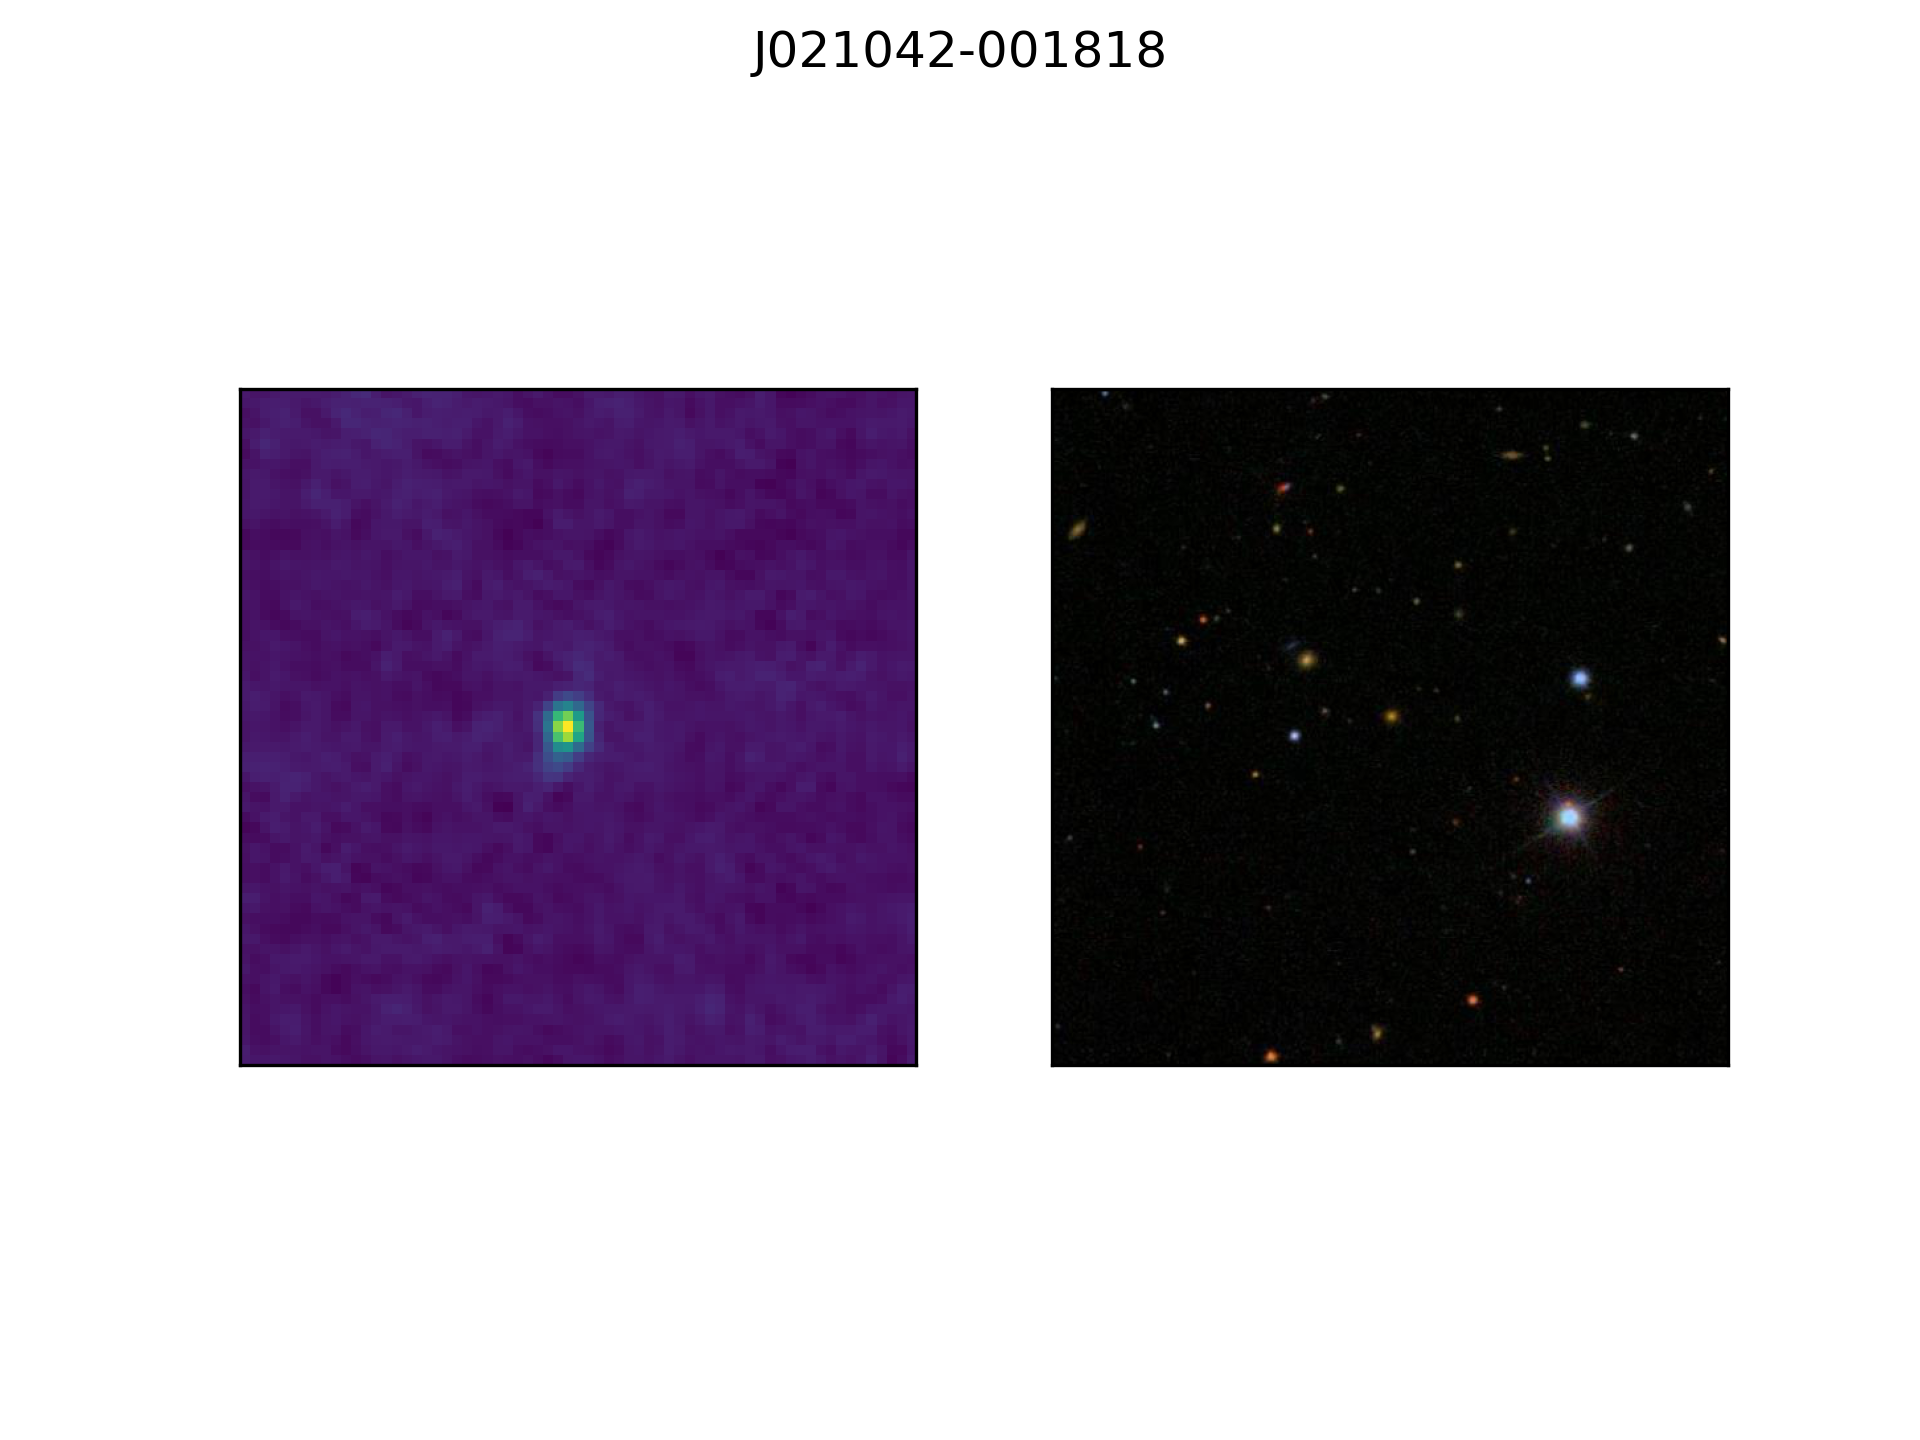
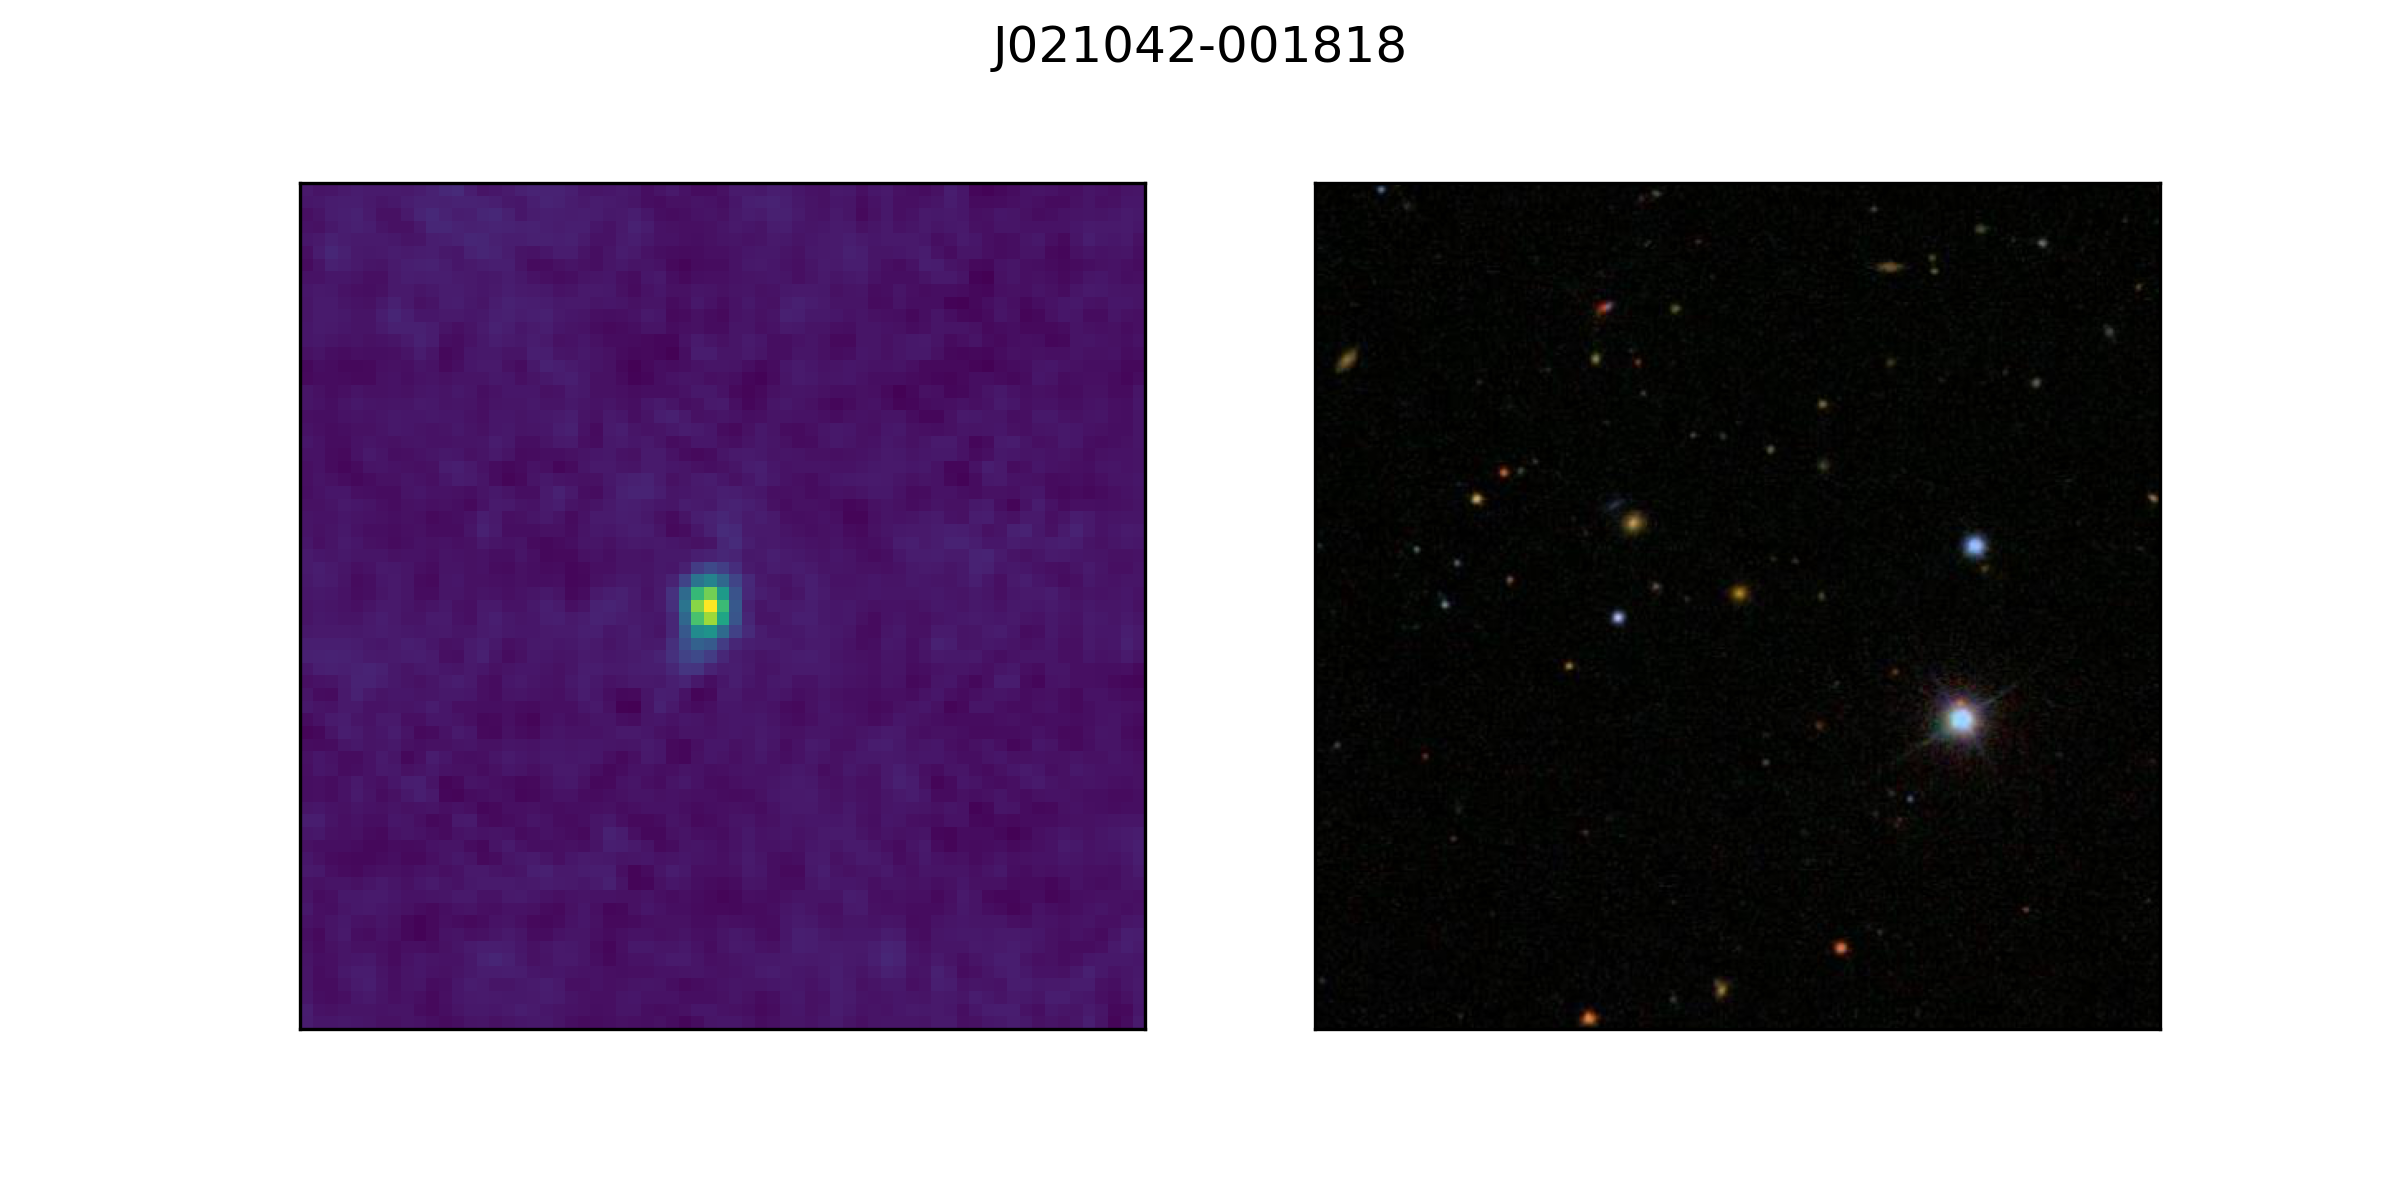
edited image size

diff --git a/sdss_exercise_1/sdss_ex1.py b/sdss_exercise_1/sdss_ex1.py
@@ -16,7 +16,7 @@ fits_images = [fits.getdata(fitsfile) for fitsfile in fits_files]
 other_images = [Image.open(other) for other in others]
 
 for i in range(len(fits_images)):
-    fig, (ax1, ax2) = plt.subplots(ncols=2)
+    fig, (ax1, ax2) = plt.subplots(ncols=2, figsize=(8,4))
     ax1.imshow(fits_images[i])
     ax2.imshow(other_images[i])
     fig.suptitle(fits_files[i].replace('.fits', ''))
